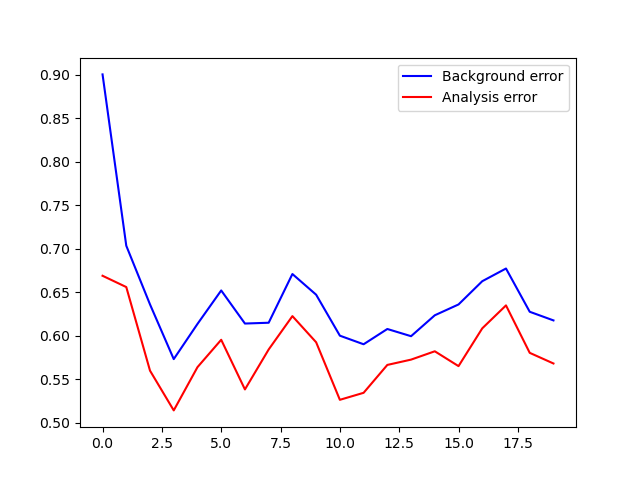
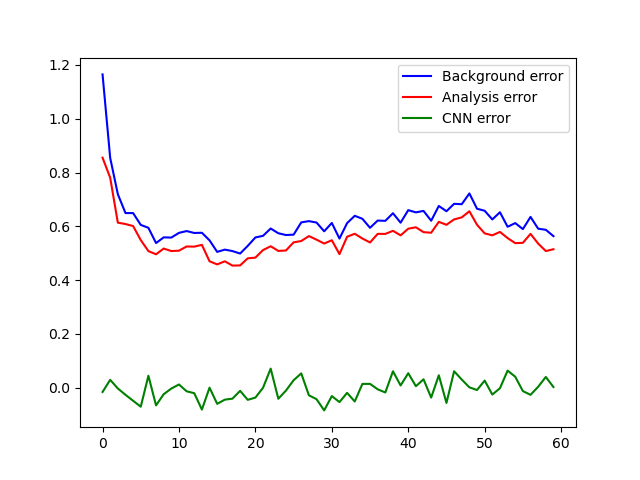
feat: ✨ using iris for da.py

diff --git a/DataAssimilation/da.py b/DataAssimilation/da.py
@@ -1,25 +1,35 @@
 """
  This function is the work of my life :D
 """
+import matplotlib.pyplot as plt
 import tensorflow as tf
+import iris
 import numpy as np
 np.random.seed(123)
-from mpl_toolkits.basemap import Basemap
-import matplotlib.pyplot as plt
-from netCDF4 import Dataset
+import datetime
+import cftime
 
 
 VARIABLE = 'air'
 NUMBER_OF_VARIABLES = 73*144
-
-
-nc_data = [Dataset(f'./test-data/{state}/{VARIABLE}{state}.nc')
+print(iris.load_cube('./test-data/6/air6.nc'))
+nc_data = []
+for state in [0,6,12,18]:
+    nc_data.append(iris.load_cube(f'./test-data/{state}/{VARIABLE}{state}.nc'))
+nc_data = [iris.load_cube(f'./test-data/{state}/{VARIABLE}{state}.nc')
            for state in [0, 6, 12, 18]]
-
-data_state = [nc_data_i['air'][:].data - 273.15 for nc_data_i in nc_data]
-
-nc_data = [nc_data_i.close() for nc_data_i in nc_data]
+start = iris.time.PartialDateTime(year=2023, month=1, day=15)
+end = iris.time.PartialDateTime(year=2023, month=1, day=30)
+query = iris.Constraint(time=lambda cell: start <= cell.point <= end)
+nc_data = [nc_data_i.extract(query) for nc_data_i in nc_data]
+data_state = [nc_data_i.data.data for nc_data_i in nc_data]
+date_time = [nc_data_i.coord('time') for nc_data_i in nc_data]
+time_units = date_time[0][0].units
 del nc_data
+from mpl_toolkits.basemap import Basemap
+if VARIABLE == 'air':
+    data_state = [nc_data_i - 273.15 for nc_data_i in data_state]
+
 
 model = [tf.keras.models.load_model(
     f'./cnn-models/{state}/{VARIABLE}{state}.h5', compile=False) for state in [0, 6, 12, 18]]
@@ -36,7 +46,8 @@ def forecast(x_h, state_h: int):
         np.array: prediction X̂_h+1
     """
     x_h = x_h.reshape(73, 144)
-    x_forecast = model[state_h].predict(tf.reshape(x_h, [1, 73, 144, 1]))[0, ..., 0]
+    x_forecast = model[state_h].predict(
+        tf.reshape(x_h, [1, 73, 144, 1]))[0, ..., 0]
     return x_forecast.flatten()
 
 
@@ -51,11 +62,11 @@ def create_initial_ensemble(x_b, number_of_members):
     """
     x_b0 = np.vstack([x_b for _ in np.arange(number_of_members)])
 
-    for k_t in np.arange(1, 13):
+    for k_t in np.arange(1, 25):
         t_h = (k_t-1) % 4
         for e_member, _ in enumerate(x_b0):
             x_b0[e_member, :] = forecast(x_b0[e_member, :] + 0.01 *
-                                  np.random.randn(NUMBER_OF_VARIABLES,), t_h)
+                                         np.random.randn(NUMBER_OF_VARIABLES,), t_h)
     return x_b0
 
 
@@ -74,53 +85,146 @@ def forecast_ensemble(x_background, state_h, number_of_members):
     while e_member < number_of_members:
         x_background[e_member, :] = forecast(
             x_background[e_member, :], state_h)
-        e_member +=1
+        e_member += 1
     return x_background
 
-NUMBER_OF_MEMBERS = 40
+lons = np.linspace(0, 357.5, 144)
+lats = np.linspace(90, -90, 73)
+
+
+lon, lat = np.meshgrid(lons, lats)
+
+min_lat, max_lat, min_lon, max_lon = lats.min(), lats.max(), lons.min(), lons.max()
+
+def plot(xcnn, xt, xa, xb):
+    """_summary_
+
+    Args:
+        xt (_type_): _description_
+        xa (_type_): _description_
+        xb (_type_): _description_
+    """
+
+    fig, ax = plt.subplots(nrows=2, ncols=2, sharey=True)
+    fig.set_size_inches(25, 20)
+    m = Basemap(projection='cyl', resolution='c',
+            llcrnrlat=min_lat, urcrnrlat=max_lat,
+            llcrnrlon=min_lon, urcrnrlon=max_lon)
+    m.ax = ax[0,0]
+    m.drawcoastlines(linewidth=0.5)
+
+    cax = m.contourf(lon, lat, xt.reshape(73, 144), levels=100)
+
+    cbar = m.colorbar(cax)
+    cbar.set_label('C')
+
+    m.drawparallels(np.arange(min_lat, max_lat+1, 20),
+                labels=[1, 0, 0, 0], linewidth=0.2)
+    m.drawmeridians(np.arange(min_lon, max_lon+1, 30),
+                labels=[0, 0, 0, 1], linewidth=0.2)
+    ax[0,0].set_title('Real state')
+
+    m.ax = ax[0,1]
+    m.drawcoastlines(linewidth=0.5)
+
+    cax = m.contourf(lon, lat, xcnn.reshape(73, 144), levels=100)
+
+    cbar = m.colorbar(cax)
+    cbar.set_label('C')
+
+    m.drawparallels(np.arange(min_lat, max_lat+1, 20),
+                labels=[1, 0, 0, 0], linewidth=0.2)
+    m.drawmeridians(np.arange(min_lon, max_lon+1, 30),
+                labels=[0, 0, 0, 1], linewidth=0.2)
+    ax[0,1].set_title('CNN')
+
+
+    m.ax = ax[1,0]
+    m.drawcoastlines(linewidth=0.5)
+
+    cax = m.contourf(lon, lat, xb.reshape(73, 144), levels=100)
+
+    cbar = m.colorbar(cax)
+    cbar.set_label('C')
+
+    m.drawparallels(np.arange(min_lat, max_lat+1, 20),
+                labels=[1, 0, 0, 0], linewidth=0.2)
+    m.drawmeridians(np.arange(min_lon, max_lon+1, 30),
+                labels=[0, 0, 0, 1], linewidth=0.2)
+    ax[1,0].set_title('Background')
+
+    m.ax = ax[1,1]
+    m.drawcoastlines(linewidth=0.5)
+
+    cax = m.contourf(lon, lat, xa.reshape(73, 144), levels=100)
+
+    cbar = m.colorbar(cax)
+    cbar.set_label('C')
+
+    m.drawparallels(np.arange(min_lat, max_lat+1, 20),
+                labels=[1, 0, 0, 0], linewidth=0.2)
+    m.drawmeridians(np.arange(min_lon, max_lon+1, 30),
+                labels=[0, 0, 0, 1], linewidth=0.2)
+    ax[1,1].set_title('Analysis')
+    plt.show()
+    plt.close(fig)
+
+
+
+NUMBER_OF_MEMBERS = 100
 Xb0 = create_initial_ensemble(
     data_state[0][0].flatten(), NUMBER_OF_MEMBERS)  # Xb0 in state 0
 
-P = 0.2
+P = 0.4
 M = round(P*NUMBER_OF_VARIABLES)
 OBSERVATION_ERROR = 0.01
 R = (OBSERVATION_ERROR**2)*np.eye(M, M)
-# NUMBER_OF_ASSIMILATION_CYCLES = 20
+NUMBER_OF_ASSIMILATION_CYCLES = len(data_state[0])
+print(NUMBER_OF_ASSIMILATION_CYCLES)
 Xa = np.array(Xb0.copy()).astype('float32')
 
 err_a = []
 err_b = []
+err_cnn = []
 
-for day in range(5):
-    for state in [0,1,2,3]:
-        NEXT_STATE = (state+1)%4
+for day in range(NUMBER_OF_ASSIMILATION_CYCLES-1):
+    print(f'Day:{day}')
+    for state in [0, 1, 2, 3]:
+        NEXT_STATE = (state+1) % 4
         if NEXT_STATE == 0:
             xt = data_state[NEXT_STATE][day+1].flatten()
         else:
             xt = data_state[NEXT_STATE][day].flatten()
 
-        Xb = forecast_ensemble(x_background=Xa, state_h=state, number_of_members=NUMBER_OF_MEMBERS)
+        Xb = forecast_ensemble(
+            x_background=Xa, state_h=state, number_of_members=NUMBER_OF_MEMBERS)
         xb = np.mean(Xb, axis=0)
         err_b.append(np.mean(np.abs(xb-xt)))
-        #Create observation - data for the assimilation process
-        H = np.random.permutation(np.arange(NUMBER_OF_VARIABLES))[:M] #we observe a different part of the domain
+        # Create observation - data for the assimilation process
+        H = np.random.permutation(np.arange(NUMBER_OF_VARIABLES))[
+            :M]  # we observe a different part of the domain
         y = np.random.multivariate_normal(xt[H], R)
 
-        #Assimilation step
+        # Assimilation step
         Pb = np.cov(Xb.T)
-        Ys = np.random.multivariate_normal(y, R, NUMBER_OF_MEMBERS).T #synthetic observations
-        Ds = Ys - Xb[:,H].T #Synthetic innovations
-        Pa = R + Pb[H,:][:,H] #Pa = R + H @ Pb @ H.T
+        Ys = np.random.multivariate_normal(
+            y, R, NUMBER_OF_MEMBERS).T  # synthetic observations
+        Ds = Ys - Xb[:, H].T  # Synthetic innovations
+        Pa = R + Pb[H, :][:, H]  # Pa = R + H @ Pb @ H.T
         Za = np.linalg.solve(Pa, Ds)
-        DX = Pb[:,H] @ Za
+        DX = Pb[:, H] @ Za
         Xa = Xb + DX.T
         xa = np.mean(Xa, axis=0)
         err_a.append(np.mean(np.abs(xa-xt)))
+        xcnn = forecast(data_state[state][day].flatten(), state)
+        err_cnn.append(np.mean(np.abs(xcnn-xt)))
+        # plot(xcnn,xt,xa,xb)
 
 fig = plt.figure()
 plt.plot(np.log(np.array(err_b)), '-b', label='Background error')
 plt.plot(np.log(np.array(err_a)), '-r', label='Analysis error')
+plt.plot(np.log(np.array(err_cnn)), '-g', label='CNN error')
 plt.legend()
-# plt.savefig('DataAssimilation/backgroundAnalysisError.png')
+plt.savefig('DataAssimilation/backgroundAnalysisError.png')
 plt.show()
 plt.close(fig)
